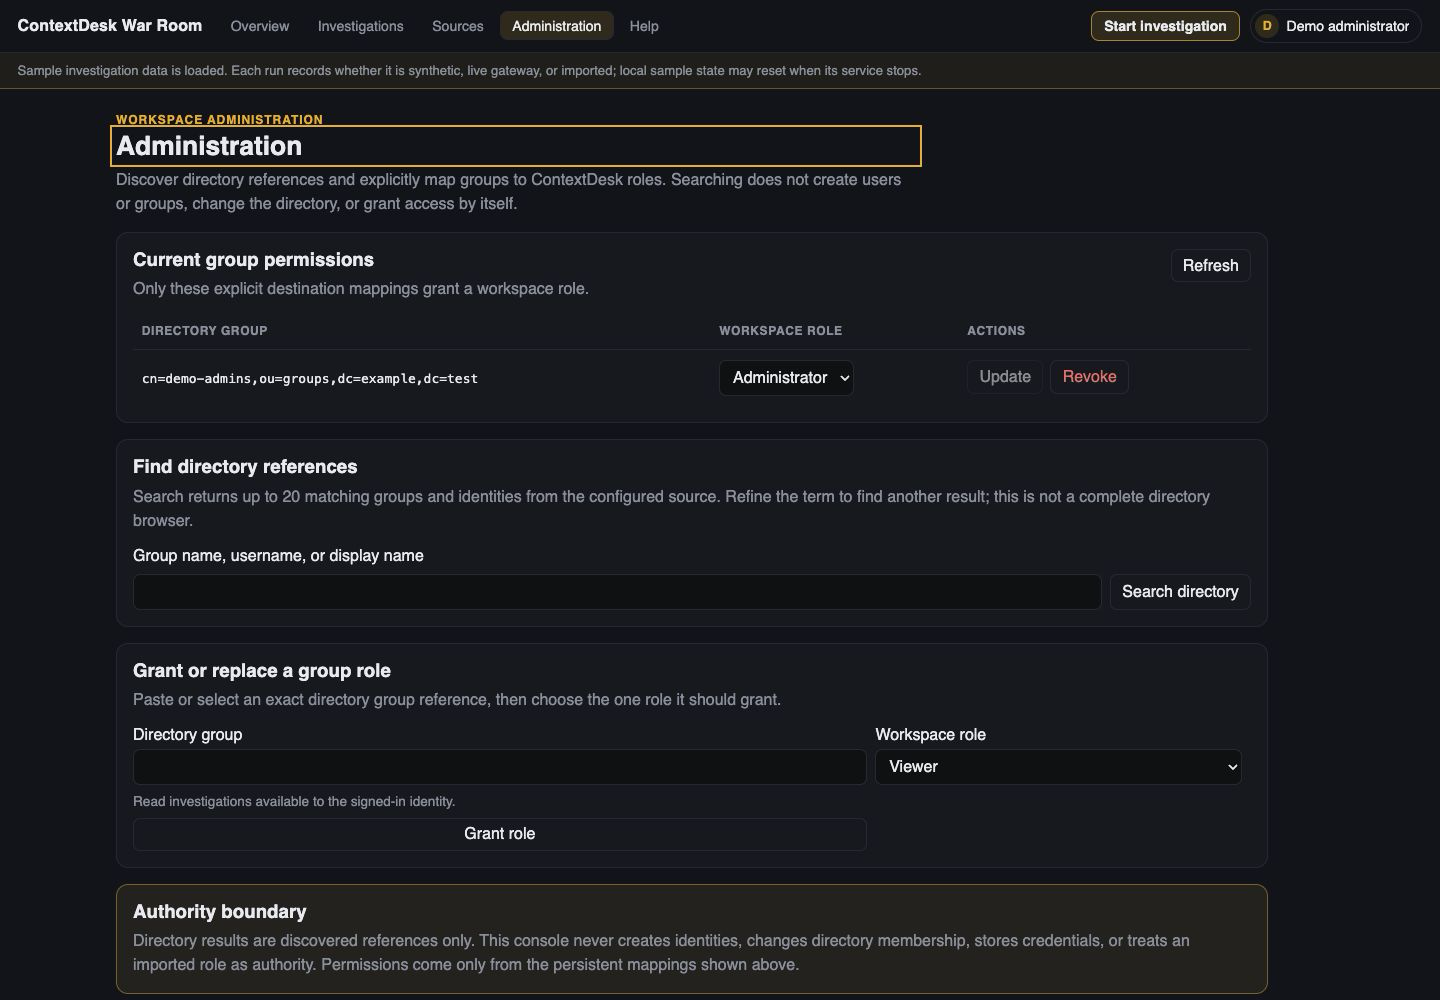
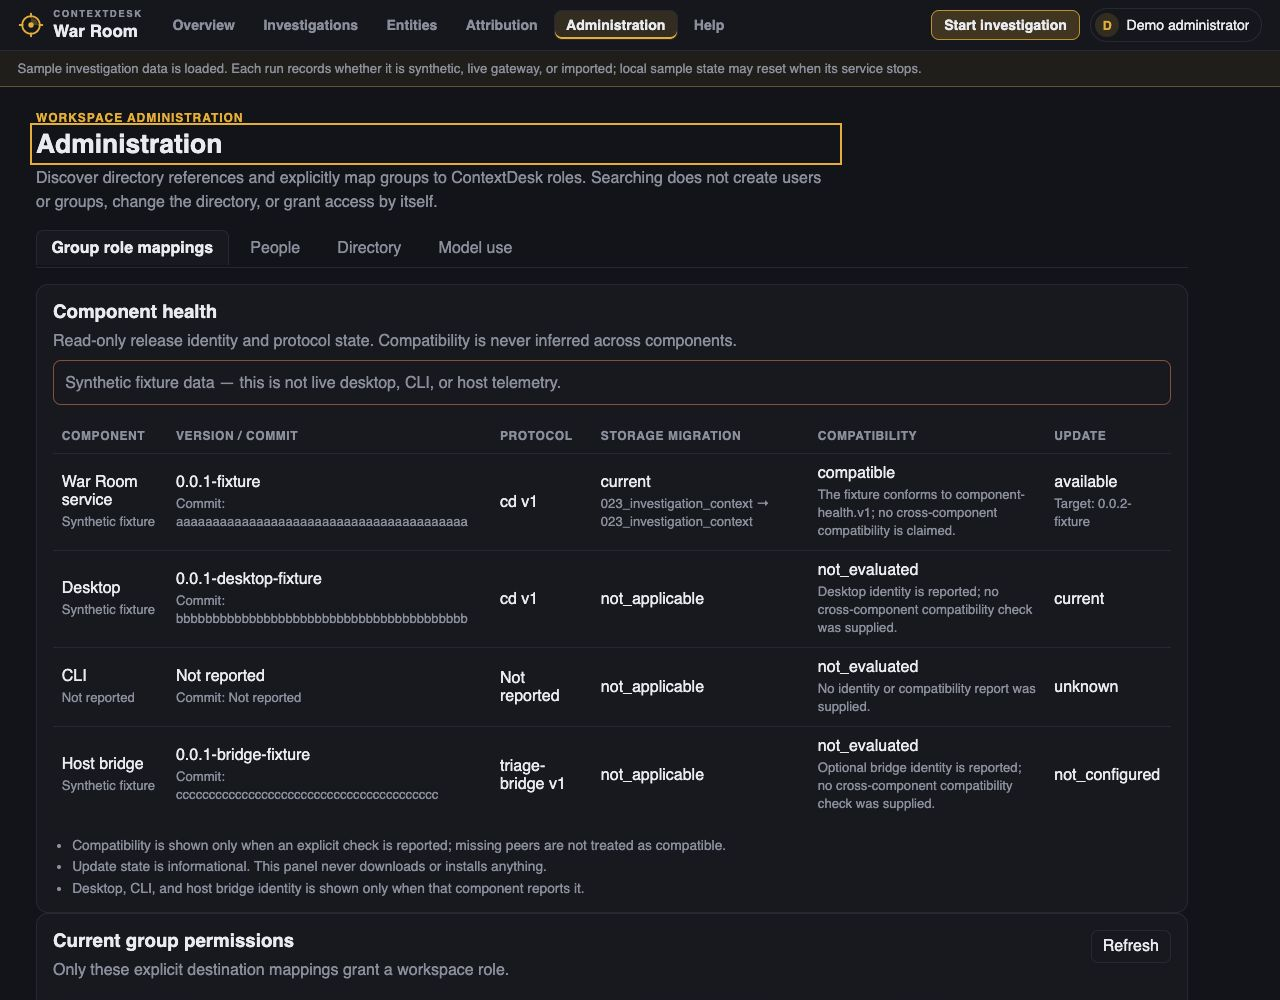
Refresh administration media and retire stale narrow capture

diff --git a/collab/web/src/HelpCenter.tsx b/collab/web/src/HelpCenter.tsx
@@ -397,13 +397,6 @@ const HELP_CATEGORIES: readonly HelpCategory[] = [
           "Saved views and bookmarks stay with the investigation. A stale bookmark explains that the file bytes moved; it does not silently jump to another line.",
         limits:
           "Each search page does a bounded amount of work and then says where it stopped, so continuing is always possible and no match is skipped or shown twice. An answer that has not covered every selected line says so instead of reading as a complete count. If the files you selected change, or a timezone is applied, a half-finished search is refused rather than resumed against different lines — start it again. A time range is answered by the timezone host, which owns that resolution; if that host cannot be reached the time range is refused rather than guessed. Regex that would run unbounded is refused. The current local server materializes one selected evidence file in memory before building line windows, so paging is not a constant-memory guarantee for one extremely large file. Share-safe locator tokens re-check authorization and do not reveal a private filename to someone who cannot open the investigation.",
-        illustrations: [
-          {
-            src: "/help/war-room/war-room-workbench-narrow.png",
-            alt: "Narrow Log workbench with file selection, search controls, and a stacked log pane",
-            caption: "At narrow widths, Workbench controls and selected log panes stack without hiding the log text.",
-          },
-        ],
         actions: [{ label: "Open the Analyze stage", go: { stage: "analyze" } }],
       },
       {

diff --git a/docs/war-room/README.md b/docs/war-room/README.md
@@ -137,8 +137,6 @@ The workbench is additive to the normal evidence board: Capture owns intake,
 the snapshot owns the exact material a triage may read, and the workbench helps
 people inspect that material before they decide what to ask.
 
-![Synthetic narrow Log workbench with stacked controls and log pane](../assets/war-room/war-room-workbench-narrow.png)
-
 These synthetic captures show the same investigation at the most useful
 handoffs:
 
